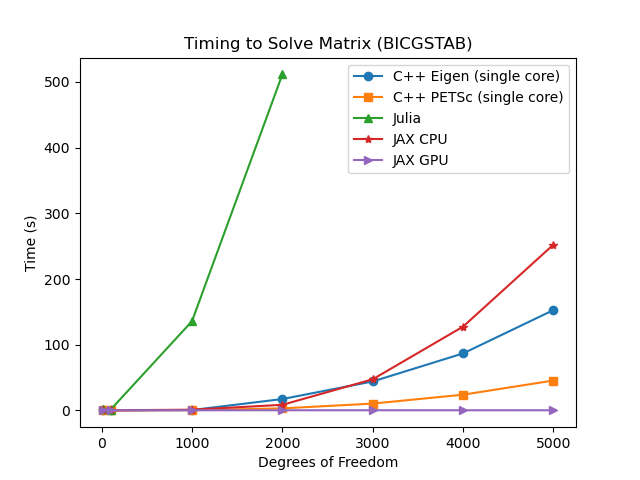
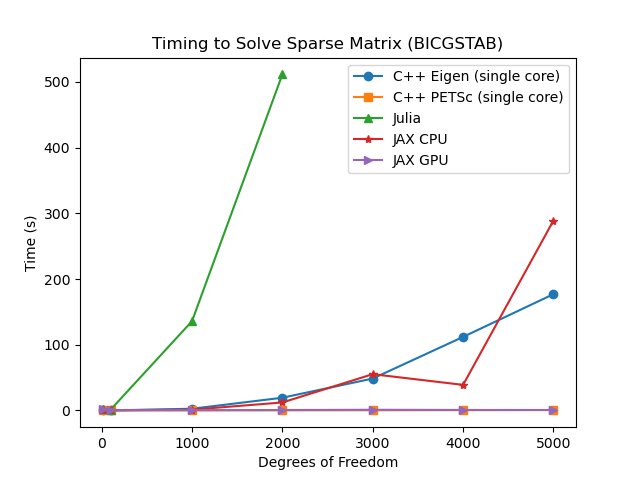
Sparse Matrix

Changed region(s): [[0.2188, 0.4375, 0.875, 0.875], [0.25, 0.0625, 0.7812, 0.125], [0.7812, 0.7812, 0.875, 0.8125]]

diff --git a/generateMatrix.py b/generateMatrix.py
@@ -9,7 +9,16 @@ if not os.path.exists(directoryName):
 dimensions = [10, 100, 1000, 2000, 3000, 4000, 5000]
 
 for dimension in dimensions:
-    matrixA = np.random.rand(dimension, dimension)
+    # generating tridiagonal matrix
+    matrixA = np.zeros((dimension, dimension))
+    for i in range(dimension):
+        for j in range(dimension):
+            if i == j:
+                matrixA[i][j] = np.random.rand()
+            elif i == j + 1 or i == j - 1:
+                matrixA[i][j] = np.random.rand()
+            else:
+                matrixA[i][j] = 0
     matrixb = np.random.rand(dimension, 1)
 
     matrixAFilename = directoryName + "/matrixA" + str(dimension) + ".csv"

diff --git a/plot.py b/plot.py
@@ -18,6 +18,6 @@ plt.plot(jax_gpu[:,0], jax_gpu[:,1], '>-', label='JAX GPU')
 plt.xlabel('Degrees of Freedom')
 plt.ylabel('Time (s)')
 # plt.yscale('log')
-plt.title('Timing to Solve Matrix (BICGSTAB)')
+plt.title('Timing to Solve Sparse Matrix (BICGSTAB)')
 plt.legend()
 plt.savefig('timing.png')
